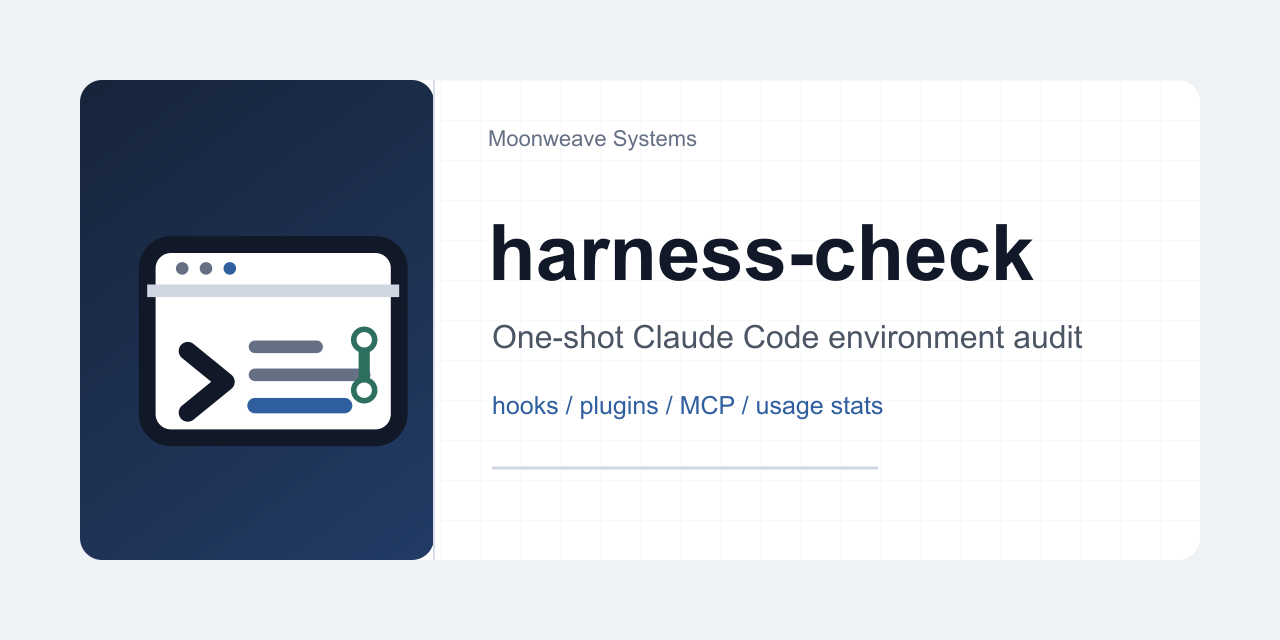
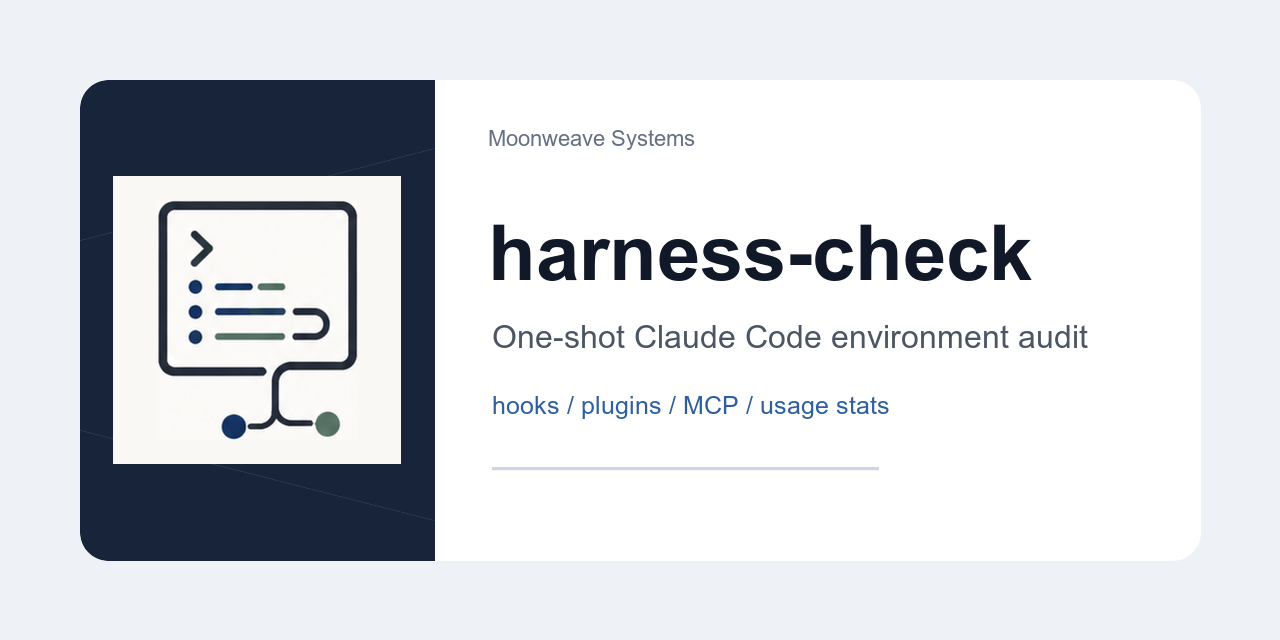
Use generated harness-check identity assets

diff --git a/README.md b/README.md
@@ -1,6 +1,6 @@
 <div align="center">
 
-<img src=".github/assets/harness-check-mark.svg" alt="harness-check mark" width="96">
+<img src=".github/assets/harness-check-mark-512.png" alt="harness-check mark" width="96">
 
 </div>
 